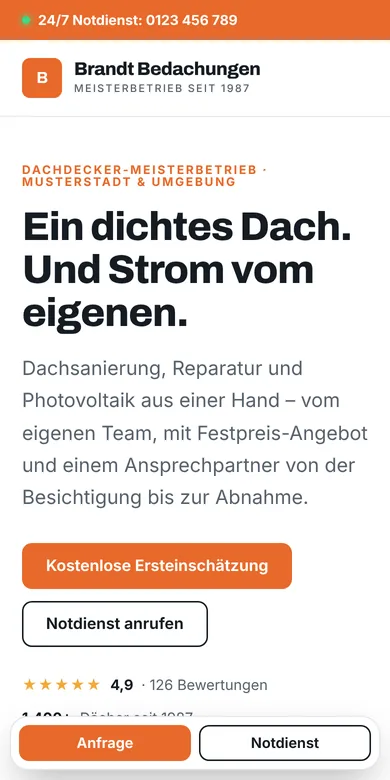
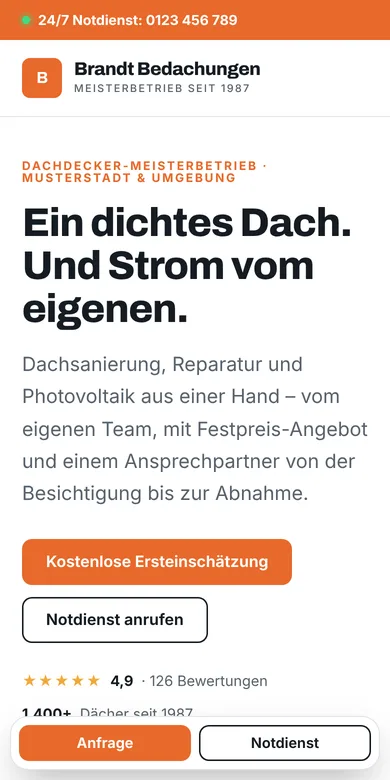
Vorschau-Websites: eigener Seitenaufbau je Branche (Mosaik, Vollbild, Randbild mit Vertrauensleiste, Typografie, Bildkarte, ruhig zentriert, runde Bildform), neue Screenshots
Claude-Session: https://claude.ai/code/session_01LjBk9rJLZKY7FRamo8XJBR

diff --git a/static/demo.css b/static/demo.css
@@ -173,3 +173,103 @@ p{margin:0 0 1em}
 .stage .art:has(.hero-img.off)::after{display:none}
 .pw:has(.off) .pw-card{position:static;margin:0}
 .pgrid+.fb{display:none}
+
+/* ================= Eigener Seitenaufbau je Branche (body.L-…) ================= */
+.trust{background:var(--ink);color:var(--bg)}
+.trust .w{display:flex;flex-wrap:wrap;justify-content:space-between;gap:10px 28px;padding-top:18px;padding-bottom:18px;font:600 .9rem/1.3 var(--body)}
+.trust span::before{content:"✓";color:var(--brand);margin-right:8px}
+.tiles{display:none}
+
+/* Friseur – Mosaik: großes Bild + zwei Kacheln, Kopf mit Logo in der Mitte */
+@media (min-width:981px){
+.L-mosaic .hd .w{display:grid;grid-template-columns:1fr auto 1fr}
+.L-mosaic .brand{grid-column:2;grid-row:1;flex-direction:column;text-align:center;gap:6px}
+.L-mosaic .nav{grid-column:1;grid-row:1;margin:0}
+.L-mosaic .hd .btn{grid-column:3;grid-row:1;justify-self:end}
+.L-mosaic .hd .w{height:96px}
+}
+.L-mosaic .hero .w{grid-template-columns:.9fr 1.1fr}
+.L-mosaic .stage{display:grid;grid-template-columns:1.25fr .75fr;grid-template-rows:1fr 1fr;gap:14px;min-height:560px}
+.L-mosaic .stage .art{position:relative;inset:auto;grid-row:span 2;border-radius:200px 200px 24px 24px}
+.L-mosaic .tiles{display:contents}
+.L-mosaic .tile{border-radius:24px;overflow:hidden;background:var(--soft)}
+.L-mosaic .tile:nth-child(2){border-radius:24px 24px 120px 24px}
+.L-mosaic .tile .foto{border-radius:0}
+.L-mosaic .float[style*="left:-"]{left:auto!important;right:24px;top:auto!important;bottom:-10px}
+.L-mosaic .float[style*="right:-"]{display:none}
+@media (max-width:600px){.L-mosaic .stage{min-height:420px}}
+
+/* Barber – Vollbild: Foto über die ganze Breite, Text darauf */
+.L-fullbleed .hd{background:rgba(10,10,12,.72);border-bottom-color:rgba(255,255,255,.08)}
+.L-fullbleed .hero{padding:0;min-height:680px;display:flex;align-items:flex-end}
+.L-fullbleed .hero .w{position:static;display:block;width:100%;padding-top:150px;padding-bottom:72px}
+.L-fullbleed .hero .w>div:first-child{position:relative;z-index:2;max-width:640px}
+.L-fullbleed .hero h1{text-transform:uppercase;font-size:clamp(2.8rem,7vw,5.6rem);line-height:.95}
+.L-fullbleed .stage{position:absolute;inset:0;min-height:0}
+.L-fullbleed .stage .art{border-radius:0}
+.L-fullbleed .stage .art::before{content:"";position:absolute;inset:0;z-index:1;background:linear-gradient(90deg,rgba(10,10,12,.92) 0%,rgba(10,10,12,.65) 45%,rgba(10,10,12,.15) 100%)}
+.L-fullbleed .stage .art:has(.hero-img)::after{display:none}
+.L-fullbleed .float{z-index:3;background:rgba(28,29,33,.88);backdrop-filter:blur(8px)}
+.L-fullbleed .float[style*="left:-"]{left:auto!important;right:6%;top:auto!important;bottom:72px}
+.L-fullbleed .float[style*="right:-"]{right:6%!important;bottom:auto!important;top:150px}
+@media (max-width:900px){.L-fullbleed .hero{min-height:0}.L-fullbleed .hero .w{padding-top:90px;padding-bottom:300px}.L-fullbleed .float[style*="right:-"]{display:none}.L-fullbleed .float[style*="left:-"]{left:22px!important;right:22px;bottom:28px}}
+
+/* Dachdecker – Bild läuft bis zum Rand, darunter Vertrauensleiste */
+.L-bleed .hero{padding:0}
+.L-bleed .hero .w{grid-template-columns:1fr 1fr;gap:64px;max-width:none;padding:0 0 0 max(22px,calc((100vw - 1156px)/2))}
+.L-bleed .hero .w>div:first-child{padding:84px 0}
+.L-bleed .stage{min-height:640px;align-self:stretch}
+.L-bleed .stage .art{border-radius:0 0 0 120px}
+.L-bleed .float[style*="left:-"]{left:-40px!important;top:auto!important;bottom:60px}
+@media (max-width:900px){.L-bleed .hero .w{padding:0;gap:0}.L-bleed .hero .w>div:first-child{padding:44px 22px}.L-bleed .stage{min-height:380px}.L-bleed .stage .art{border-radius:0}.L-bleed .float[style*="left:-"]{left:16px!important;bottom:16px}}
+
+/* Steuerberater – Typografie: Überschrift über die ganze Breite, Grafik klein daneben */
+.L-type .hero{padding:96px 0 64px;border-bottom:1px solid var(--line)}
+.L-type .hero .w{grid-template-columns:1.2fr .8fr;column-gap:72px;row-gap:0;align-items:start}
+.L-type .hero .w>div:first-child{display:contents}
+.L-type .hero .eyebrow,.L-type .hero h1{grid-column:1/-1}
+.L-type .hero h1{font-size:clamp(2.6rem,6.4vw,5.4rem);max-width:15em;padding-bottom:40px;margin-bottom:40px;border-bottom:1px solid var(--line)}
+.L-type .hero .lead,.L-type .hero .acts,.L-type .hero .chips{grid-column:1}
+.L-type .stage{grid-column:2;grid-row:3/span 3;min-height:300px}
+.L-type .stage .art{border-radius:6px}
+.L-type .float[style*="left:-"]{display:none}
+.L-type .float{right:16px!important;bottom:16px!important}
+@media (max-width:900px){.L-type .hero .w{grid-template-columns:1fr}.L-type .stage{grid-column:1;grid-row:auto;margin-top:24px}}
+
+/* Pflegedienst – großes Bild, Textkarte darauf */
+.L-cover .hero{padding:28px 0 64px}
+.L-cover .hero .w{display:grid;grid-template-columns:1fr}
+.L-cover .hero .w>*{grid-area:1/1}
+.L-cover .stage{min-height:640px}
+.L-cover .stage .art{border-radius:36px}
+.L-cover .hero .w>div:first-child{position:relative;z-index:3;align-self:end;max-width:600px;margin:0 0 36px 36px;background:var(--card);border-radius:28px;padding:40px 40px 30px;box-shadow:0 30px 70px -30px rgba(0,0,0,.4)}
+.L-cover .hero h1{font-size:clamp(2.2rem,4.4vw,3.6rem)}
+.L-cover .float[style*="left:-"]{left:auto!important;right:36px;top:36px!important}
+@media (max-width:900px){.L-cover .hero .w>*{grid-area:auto}.L-cover .stage{min-height:340px;order:-1}.L-cover .hero .w>div:first-child{margin:-90px 12px 0;padding:28px 22px 20px}.L-cover .float[style*="left:-"]{right:14px;top:14px!important;left:auto!important}}
+
+/* Bestatter – ruhig: zentrierter Text, breites flaches Bild darunter */
+.L-quiet .hd .w{height:88px}
+.L-quiet .hero{padding:110px 0 0;text-align:center}
+.L-quiet .hero .w{grid-template-columns:1fr;gap:72px;justify-items:center}
+.L-quiet .hero .w>div:first-child{max-width:760px}
+.L-quiet .hero .lead{margin-inline:auto}
+.L-quiet .hero .acts,.L-quiet .chips{justify-content:center}
+.L-quiet .stage{width:100%;min-height:360px}
+.L-quiet .stage .art{border-radius:4px 4px 0 0}
+.L-quiet .float[style*="left:-"]{left:50%!important;transform:translateX(-50%);bottom:-1px!important;border-radius:18px 18px 0 0;text-align:center}
+@media (max-width:900px){.L-quiet .hero{padding-top:56px}.L-quiet .stage{min-height:260px}.L-quiet .float[style*="left:-"]{width:auto!important;left:16px!important;right:16px;transform:none}}
+
+/* Tierarzt – Bild links in runder Form, Text rechts, getönter Hintergrund */
+.L-blob .hero{background:var(--bg2)}
+.L-blob .hero .w{grid-template-columns:.95fr 1.05fr}
+.L-blob .hero .w>div:first-child{order:2}
+.L-blob .stage{order:1;min-height:540px}
+.L-blob .stage .art{border-radius:58% 42% 46% 54% / 52% 44% 56% 48%}
+.L-blob .float[style*="left:-"]{left:auto!important;right:-10px;top:24px!important}
+.L-blob .float[style*="right:-"]{right:auto!important;left:-10px}
+@media (max-width:900px){.L-blob .hero .w>div:first-child{order:1}.L-blob .stage{order:2;min-height:380px}.L-blob .float[style*="right:-"]{left:10px!important}.L-blob .float[style*="left:-"]{right:10px!important}}
+/* Feinschliff */
+.L-fullbleed .hero h1{font-size:clamp(2.6rem,6vw,4.4rem)}
+.L-fullbleed .hero .w{padding-top:110px;padding-bottom:64px}
+.L-quiet .hero{padding-top:72px}.L-quiet .hero .w{gap:48px}
+@media (max-width:900px){.L-mosaic .hero .w,.L-bleed .hero .w,.L-blob .hero .w,.L-type .hero .w{grid-template-columns:1fr}.L-fullbleed .hero .w{padding-top:72px}}

diff --git a/vorschau.py b/vorschau.py
@@ -53,6 +53,7 @@ def alle_fotos():
     ids = set()
     for d in DEMOS.values():
         if d.get("hero_foto"): ids.add(str(d["hero_foto"][0]))
+        for pid, _ in d.get("hero_tiles", []): ids.add(str(pid))
         for k, v in d["sections"]:
             for pid, _ in v.get("fotos", []): ids.add(str(pid))
             if v.get("vis_foto"): ids.add(str(v["vis_foto"][0]))
@@ -257,19 +258,21 @@ def page(d, agentur, back):
     acts = "".join(f'<a class="btn{"" if i == 0 else " alt"}" href="{u}">{t}</a>' for i, (t, u) in enumerate(h["ctas"]))
     chips = "".join(f"<span>{c}</span>" for c in h["chips"])
     body = "".join(BLOCKS[k](v) for k, v in d["sections"])
+    tiles = ("<div class=\"tiles\">" + "".join(f'<div class="tile">{foto(pid, alt)}</div>' for pid, alt in d["hero_tiles"]) + "</div>") if d.get("hero_tiles") else ""
+    trust = f'<div class="trust"><div class="w">{"".join(f"<span>{x}</span>" for x in d["trust"])}</div></div>' if d.get("trust") else ""
     ft = d["footer"]
     mbar = "".join(f'<a class="btn sm{"" if i == 0 else " alt"}" href="{u}">{t}</a>' for i, (t, u) in enumerate(d["mbar"]))
     return f"""<!doctype html><html lang="de"><head><meta charset="utf-8"><meta name="viewport" content="width=device-width,initial-scale=1">
 <title>{d["name"]} – Vorschau | {agentur}</title><meta name="robots" content="noindex,nofollow">
 <meta name="description" content="Vorschau einer Beispiel-Website von {agentur} für einen fiktiven Betrieb ({d["branche"]}).">
 <link rel="icon" href="/favicon.svg" type="image/svg+xml"><link rel="stylesheet" href="/demo.css">
-<style>{fonts}:root{{{vars_}}}</style></head><body>
+<style>{fonts}:root{{{vars_}}}</style></head><body class="L-{d.get("layout", "split")}">
 <div class="demo-bar">Vorschau einer Beispiel-Website von {agentur} · {d["name"]} ist ein fiktiver Betrieb · <a href="{back}">← Zurück zum Beispiel</a></div>
 <div class="strip"><div class="w">{strip}</div></div>
 <header class="hd"><div class="w"><a class="brand" href="#"><span class="mark">{d["mark"]}</span><span>{d["name"]}<small>{d["claim"]}</small></span></a><nav class="nav">{nav}</nav><a class="btn sm" href="{d["cta"][1]}">{d["cta"][0]}</a></div></header>
 <section class="hero"><div class="w"><div><span class="eyebrow">{h["eb"]}</span><h1>{h["h1"]}</h1><p class="lead">{h["lead"]}</p><div class="acts">{acts}</div><div class="chips">{chips}</div></div>
-<div class="stage"><div class="art">{ART[d["art"]]}{foto(*d["hero_foto"], cls="foto hero-img").replace(' loading="lazy"', ' fetchpriority="high"') if d.get("hero_foto") else ""}</div>{h["floats"]}</div></div></section>
-{body}
+<div class="stage"><div class="art">{ART[d["art"]]}{foto(*d["hero_foto"], cls="foto hero-img").replace(' loading="lazy"', ' fetchpriority="high"') if d.get("hero_foto") else ""}</div>{tiles}{h["floats"]}</div></div></section>
+{trust}{body}
 <footer class="ft"><div class="w"><div class="cols"><div><div class="brand" style="color:#fff"><span class="mark">{d["mark"]}</span><span>{d["name"]}</span></div><p style="margin-top:16px;max-width:26em">{ft["about"]}</p></div>
 {"".join(f'<div><h4>{t}</h4><ul>{"".join(f"<li>{x}</li>" for x in xs)}</ul></div>' for t, xs in ft["cols"])}</div>
 <div class="bottom"><span>© {d["name"]} · fiktiver Beispielbetrieb</span><span>Website-Vorschau von {agentur} · Fotos: Pexels</span></div></div></footer>
@@ -284,6 +287,7 @@ def fl(style, inner):
 DEMOS = {}
 
 DEMOS["friseur"] = {
+ "layout": "mosaic", "hero_tiles": [(3356170, "Haarschnitt im Salon"), (2799605, "Styling mit Rundbürste")],
  "hero_foto": (3993453, "Friseurin schneidet einer Kundin die Haare"),
  "name": "Kamm &amp; Kante", "branche": "Friseur", "claim": "Salon für Schnitt &amp; Farbe", "mark": "K&amp;K", "art": "friseur",
  "fonts": [("Bodoni Moda", "bodoni"), ("Manrope", "manrope")],
@@ -329,6 +333,7 @@ DEMOS["friseur"] = {
 }
 
 DEMOS["barber"] = {
+ "layout": "fullbleed",
  "hero_foto": (3998417, "Barber schneidet einem Kunden den Bart"),
  "name": "Blackline Barbers", "branche": "Barbershop", "claim": "Barbershop · Est. 2019", "mark": "BL", "art": "barber",
  "fonts": [("Archivo", "archivo"), ("Inter", "inter")],
@@ -371,6 +376,7 @@ DEMOS["barber"] = {
 }
 
 DEMOS["dachdecker-solar"] = {
+ "layout": "bleed", "trust": ["Meisterbetrieb seit 1987", "Mitglied der Dachdecker-Innung", "Zertifizierter PV-Fachbetrieb", "5 Jahre Gewährleistung", "Notdienst 24/7"],
  "hero_foto": (35237908, "Handwerker montiert Solarmodule auf einem Hausdach"),
  "name": "Brandt Bedachungen", "branche": "Dachdecker &amp; Solar", "claim": "Meisterbetrieb seit 1987", "mark": "B", "art": "dach",
  "fonts": [("Archivo", "archivo"), ("Inter", "inter")],
@@ -418,6 +424,7 @@ DEMOS["dachdecker-solar"] = {
 }
 
 DEMOS["steuerberater"] = {
+ "layout": "type",
  "hero_foto": (7433848, "Beratungsgespräch in einem hellen Büro"),
  "name": "Kanzlei Weidner", "branche": "Steuerberatung", "claim": "Steuerberatung für das Handwerk", "mark": "W", "art": "steuer",
  "fonts": [("Instrument Serif", "instrument"), ("DM Sans", "dmsans")],
@@ -468,6 +475,7 @@ DEMOS["steuerberater"] = {
 }
 
 DEMOS["pflegedienst"] = {
+ "layout": "cover",
  "hero_foto": (18459198, "Pflegekraft unterstützt ältere Menschen"),
  "name": "Pflege am Lindenhof", "branche": "Ambulante Pflege", "claim": "Ambulanter Pflegedienst", "mark": "L", "art": "pflege",
  "fonts": [("Fraunces", "fraunces"), ("Figtree", "figtree")],
@@ -515,6 +523,7 @@ DEMOS["pflegedienst"] = {
 }
 
 DEMOS["bestatter"] = {
+ "layout": "quiet",
  "hero_foto": (8986709, "Strauß weißer Blumen"),
  "name": "Bestattungen Hollmann", "branche": "Bestattungen", "claim": "Familienbetrieb seit 1952", "mark": "H", "art": "bestatter",
  "fonts": [("Cormorant Garamond", "cormorant"), ("Inter", "inter")],
@@ -559,6 +568,7 @@ DEMOS["bestatter"] = {
 }
 
 DEMOS["tierarzt"] = {
+ "layout": "blob",
  "hero_foto": (6235242, "Tierarzt hält einen kleinen Hund im Arm"),
  "name": "Tierarztpraxis am Mühlbach", "branche": "Tierarztpraxis", "claim": "Kleintierpraxis", "mark": "M", "art": "tierarzt",
  "fonts": [("Outfit", "outfit")],
